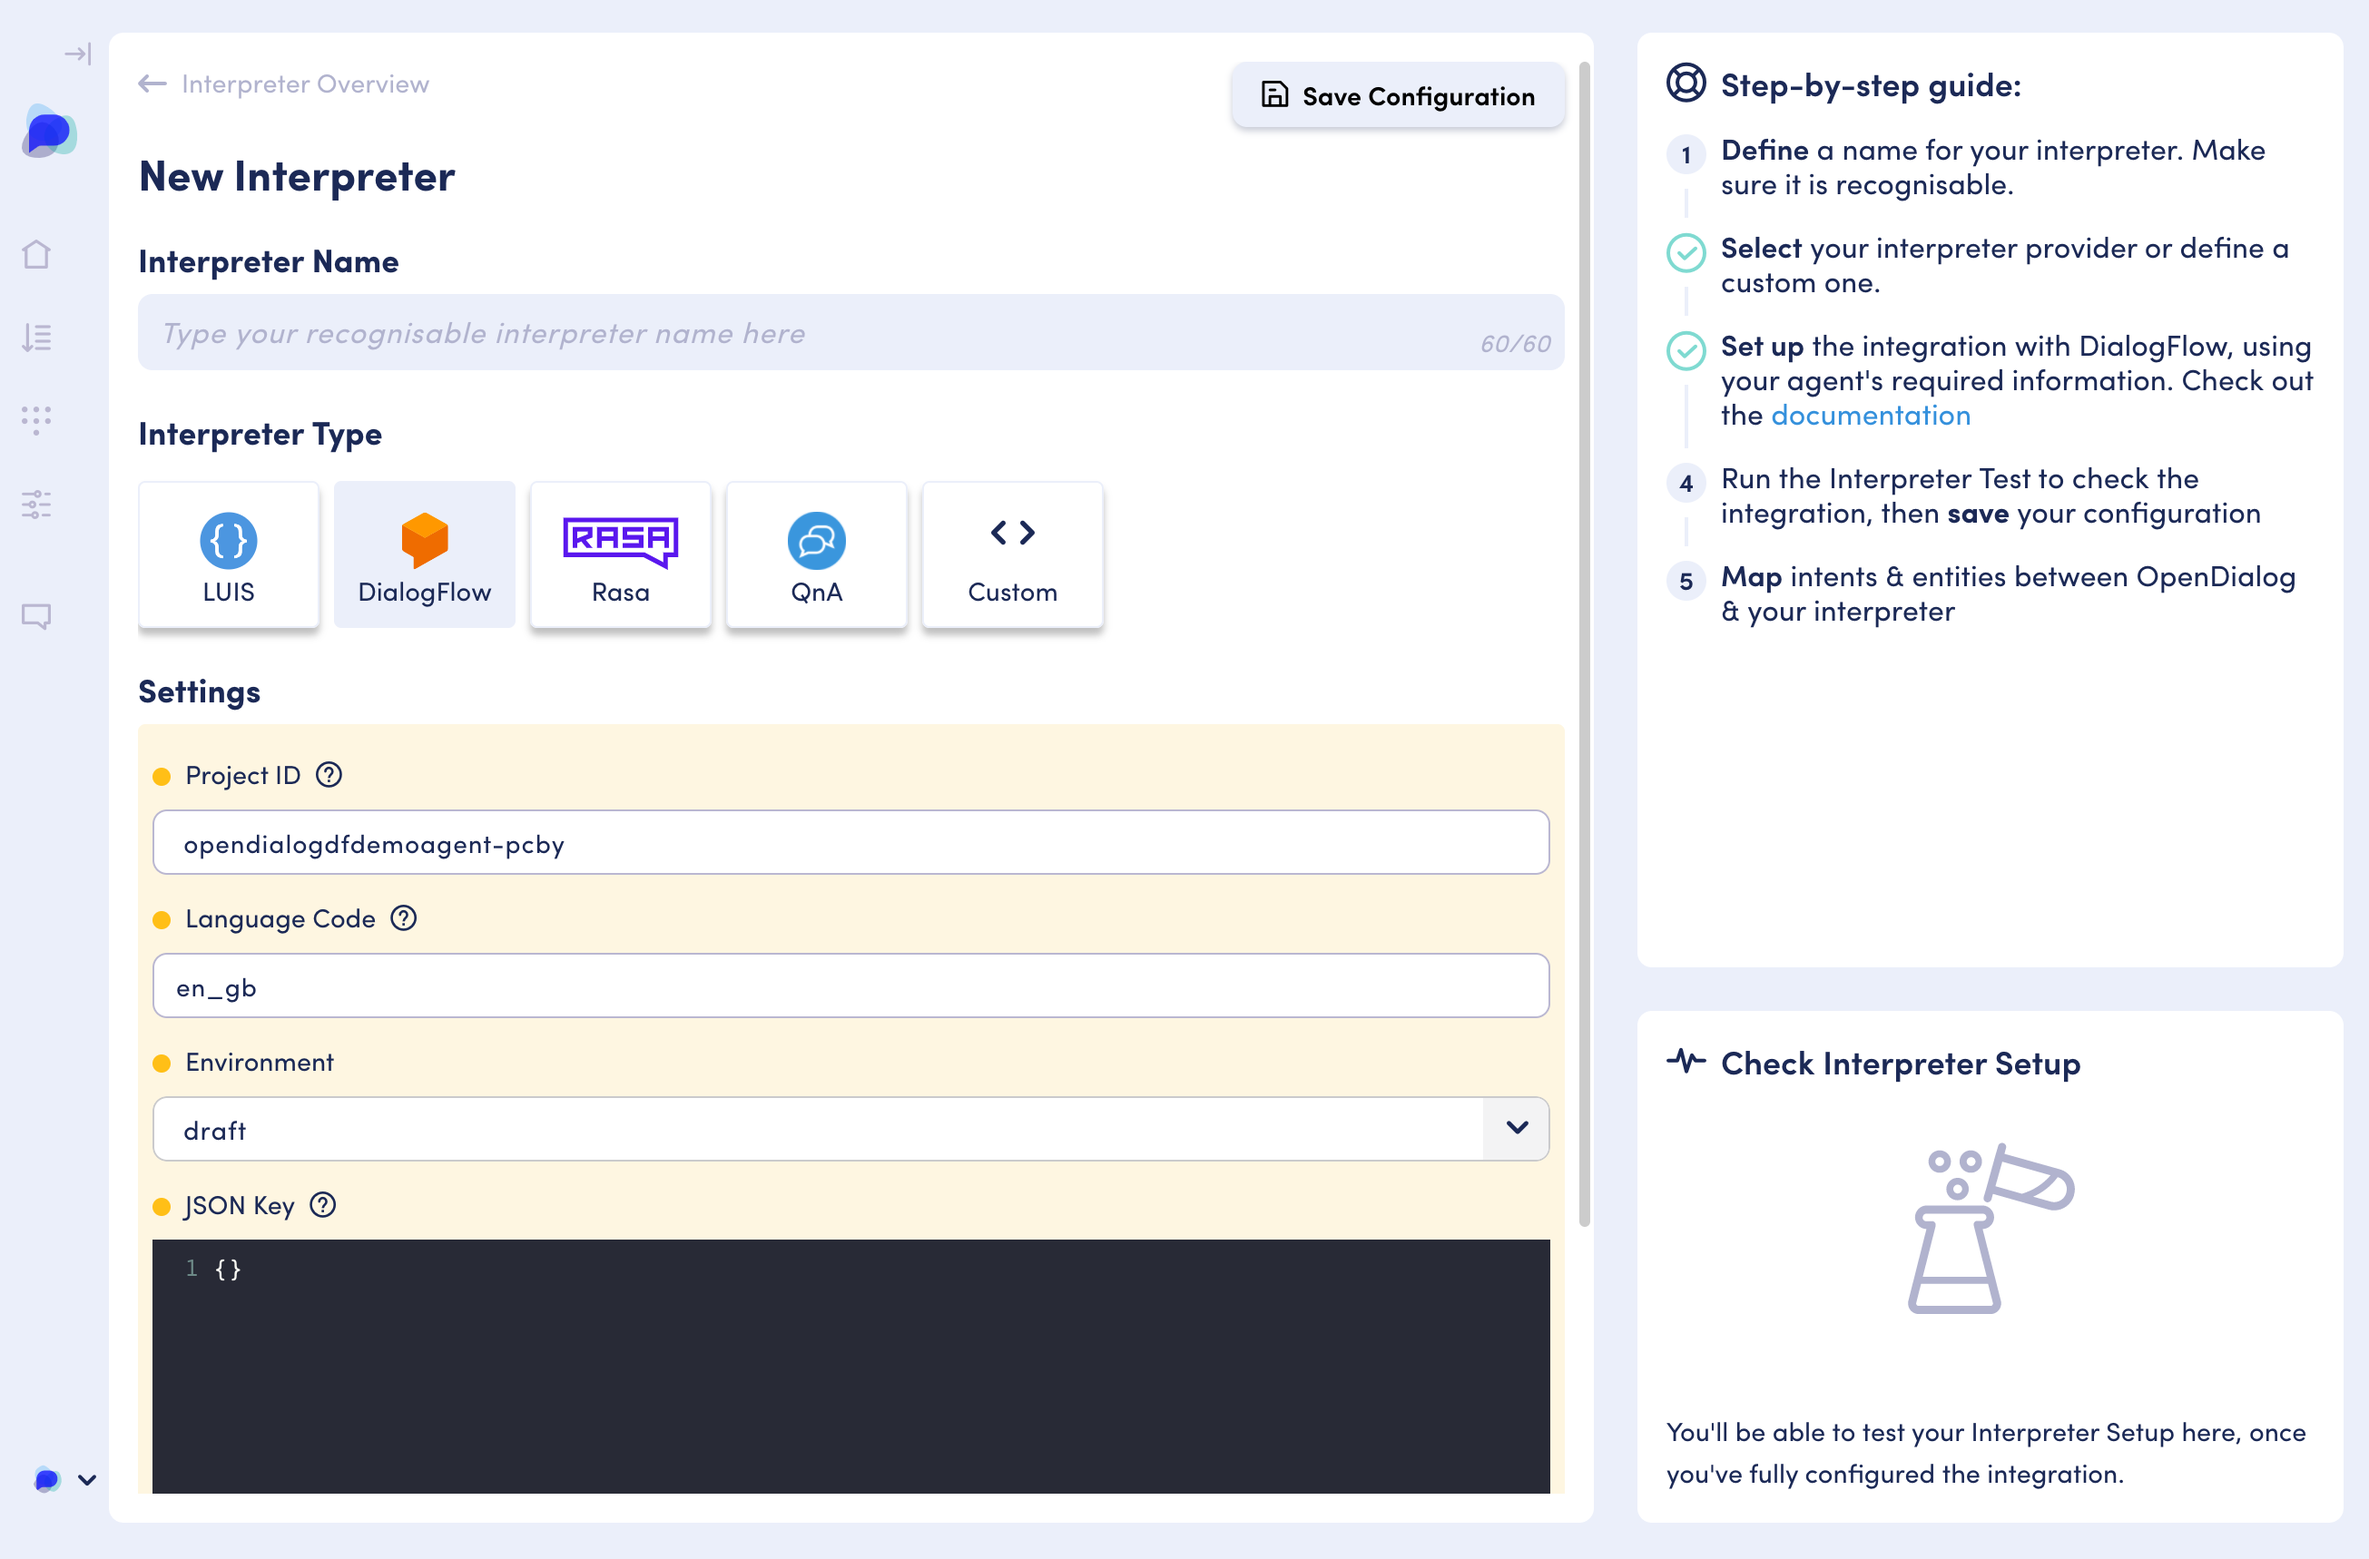
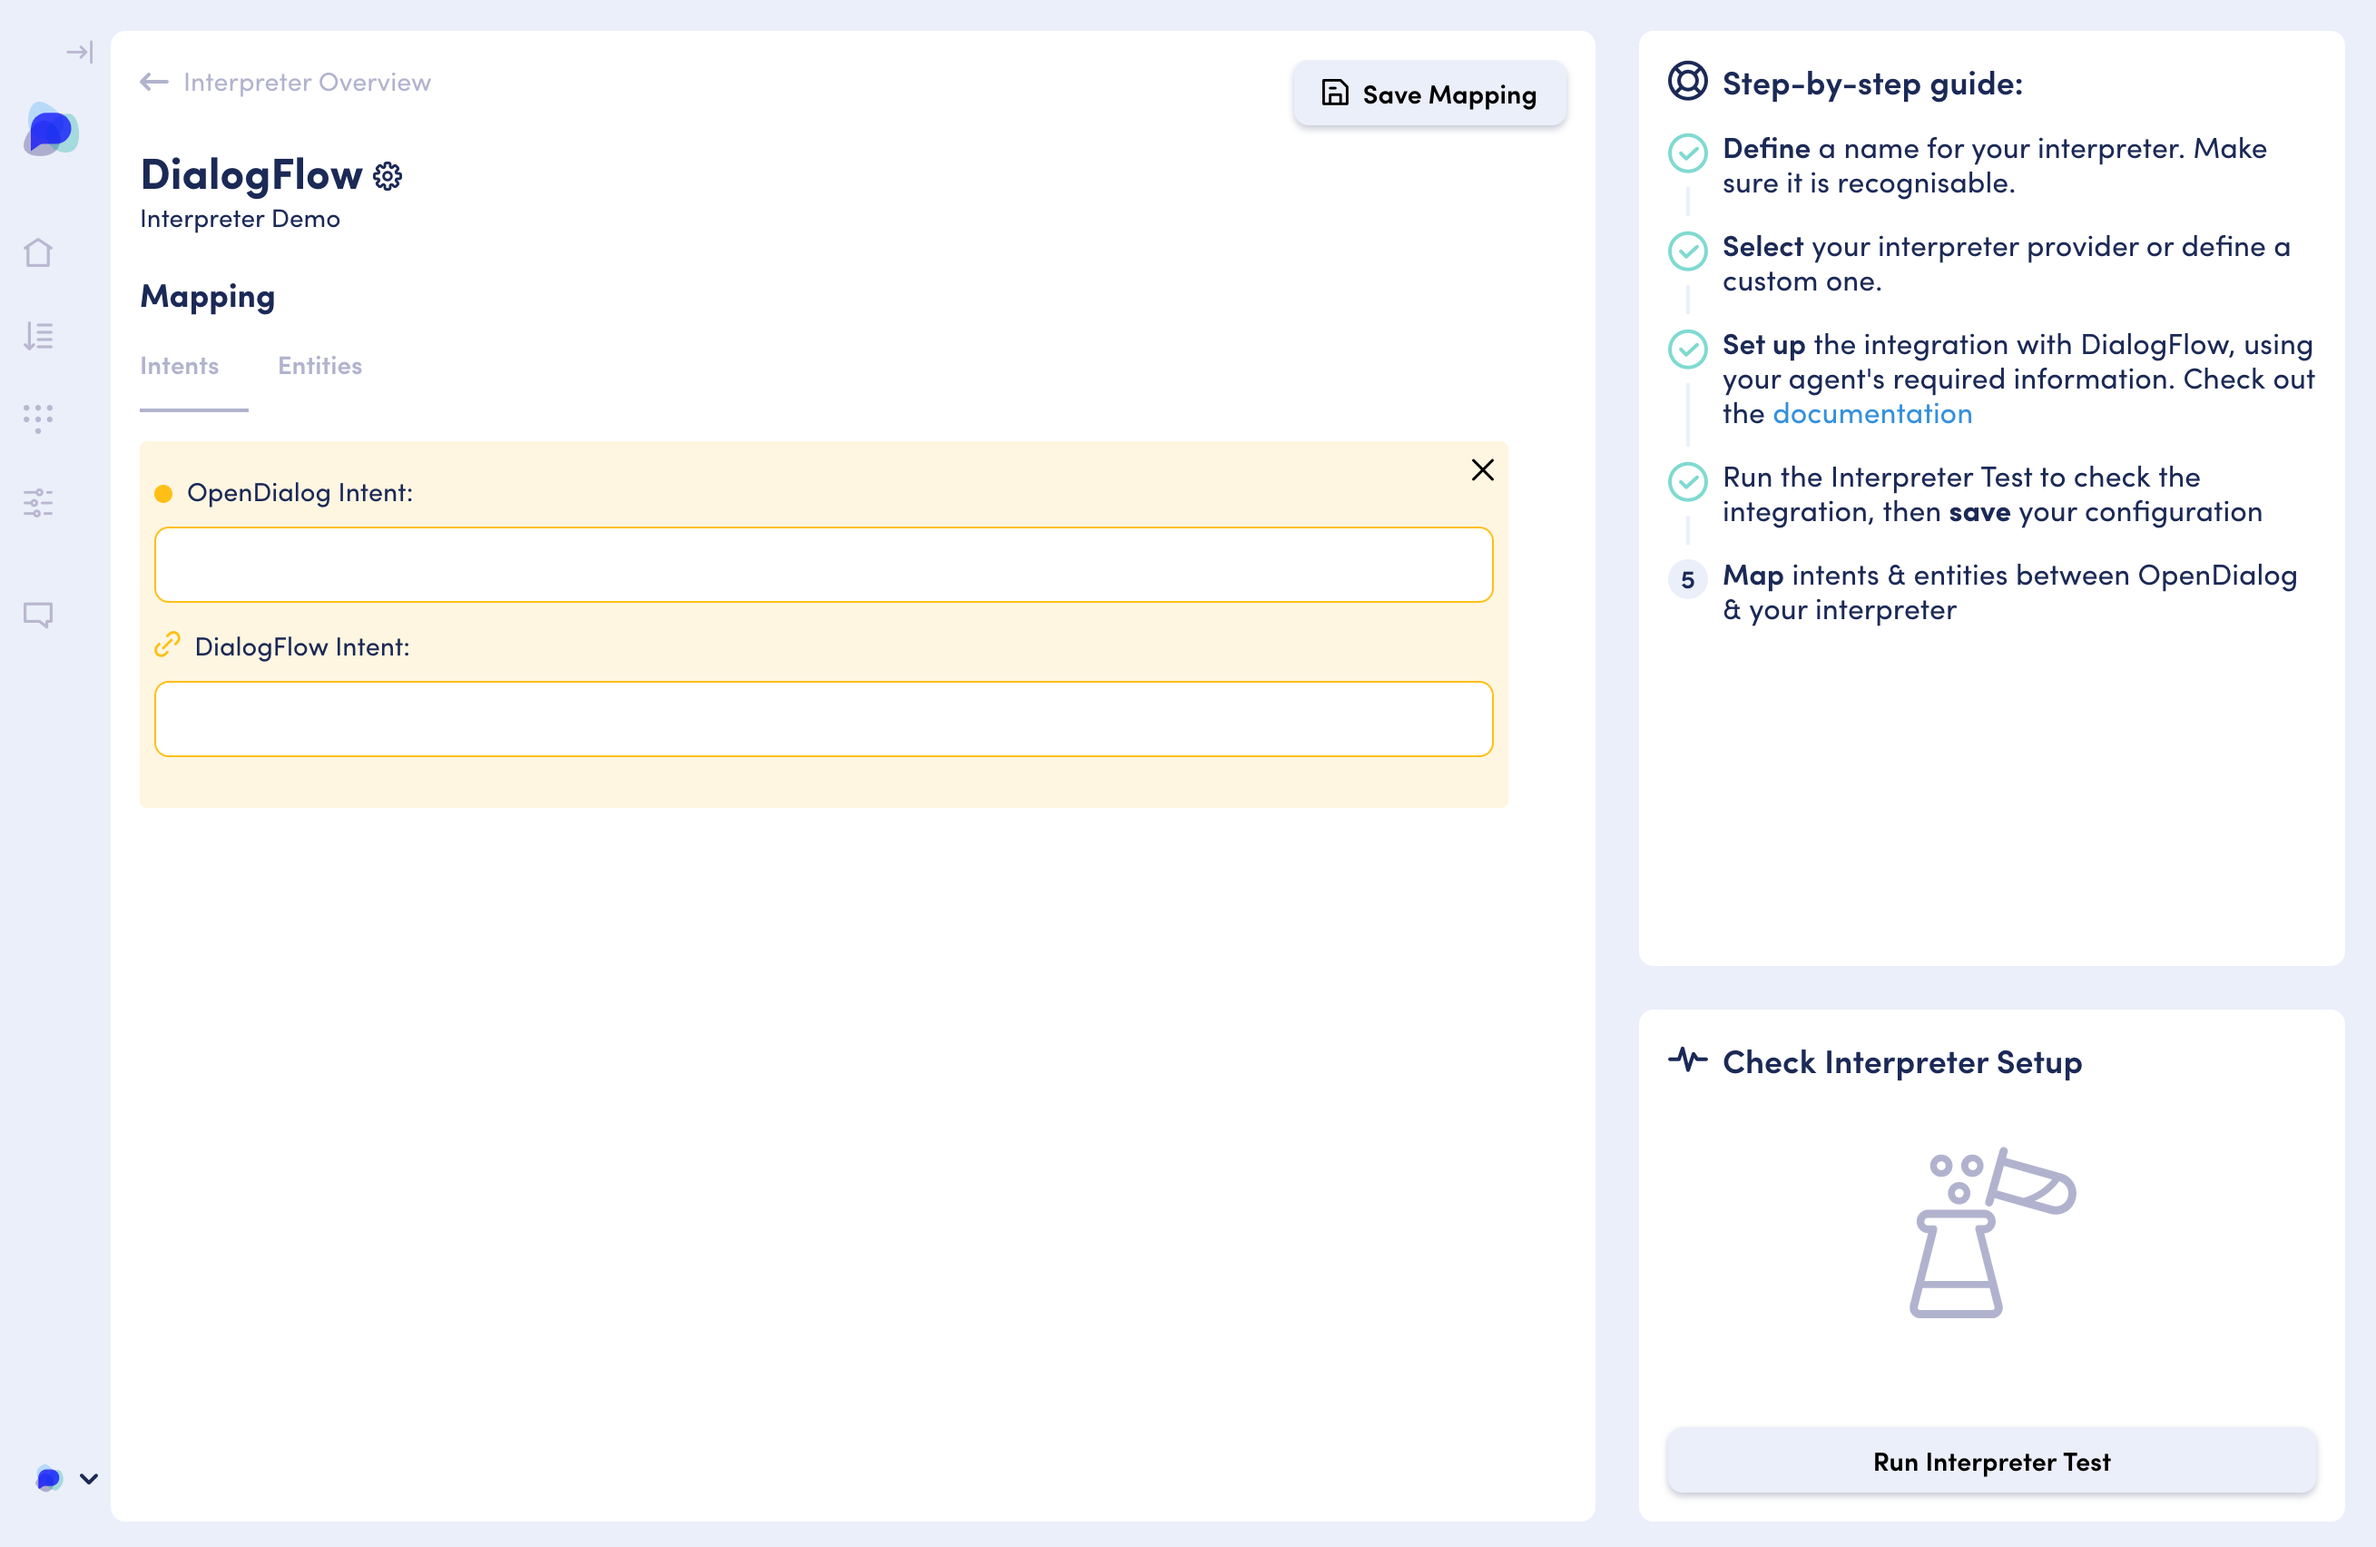
GitBook: [1.x] 43 pages and 13 assets modified

diff --git a/interpreters-and-natural-language-understanding.md b/interpreters-and-natural-language-understanding.md
@@ -129,25 +129,73 @@ Once you've created an agent follow the instructions here to generate an API key
 
 The first step is to create a service user - we will need the Dialogflow API Admin role.
 
-![Creating an service user for the Dialogflow API through the Google Cloud Console](.gitbook/assets/image%20%28147%29.png)
+![Creating an service user for the Dialogflow API through the Google Cloud Console](.gitbook/assets/image%20%28154%29.png)
 
 Then you can create a JSON key which will generate a file and download it to your machine. 
 
-![Generating a JSON key for Dialogflow API access](.gitbook/assets/image%20%28144%29.png)
+![Generating a JSON key for Dialogflow API access](.gitbook/assets/image%20%28147%29.png)
 
 #### Create a Dialogflow Interpreter in OpenDialog 
 
 We can now create an interpreter in OpenDialog that will connect to that Dialogflow agent. 
 
-![OpenDialog Interpreter Manager](.gitbook/assets/image%20%28146%29.png)
+![OpenDialog Interpreter Manager](.gitbook/assets/image%20%28152%29.png)
 
-![Dialogflow Interpreter Configuration](.gitbook/assets/image%20%28143%29.png)
+![Dialogflow Interpreter Configuration](.gitbook/assets/image%20%28146%29.png)
 
 Once you've filled in the details you will be able to run a connectivity test to ensure that the API key is working correctly.  
 
 ![](.gitbook/assets/2021-06-07_17-01-18.png)
 
 With a success message in place you are ready to start using intents in your conversation design. 
+
+### Mapping Intents
+
+The Dialogflow management screen allows us to map Intents and/or Entities between OpenDialog and Dialogflow. What this means is that you can say things such as the intent calls "Example Intent" in OpenDialog should be compared with the intent called "Another Intent" in Dialogflow. 
+
+![](.gitbook/assets/image%20%28143%29.png)
+
+This makes it simpler to reuse preexisting intents or entities without having to rename things. 
+
+#### Activate the interpreter
+
+The last step is to activate our interpreter so that we can use it from within Scenarios.
+
+![](.gitbook/assets/image%20%28148%29.png)
+
+### Dialogflow example
+
+Ok - let's try out our new NLU interpreter!
+
+We will create two intents in Dialogflow. One for "I need help" and one for "I have a question". 
+
+![Intents in Dialogflow](.gitbook/assets/image%20%28150%29.png)
+
+The intents just have some example phrases associated with them and nothing else. We will handle the rest from within OpenDialog. 
+
+We will create a new scenario and add two open turns, each turn handling one of the intents. 
+
+![Welcome scene for Dialogflow example](.gitbook/assets/image%20%28142%29.png)
+
+![Configuring an intent to use our DF Interpreter](.gitbook/assets/image%20%28145%29.png)
+
+The request intent from the user is set to use the Interpreter that we just created and we've set the confidence level to 60%. 
+
+The message is attached to the response intent.
+
+![Response to help request intent](.gitbook/assets/image%20%28153%29.png)
+
+A quick try in our WebChat widget shows that our intent is being interpreter successfully by Dialogflow and providing a response.
+
+![](.gitbook/assets/image%20%28149%29.png)
+
+
+
+
+
+
+
+
 
 
 
